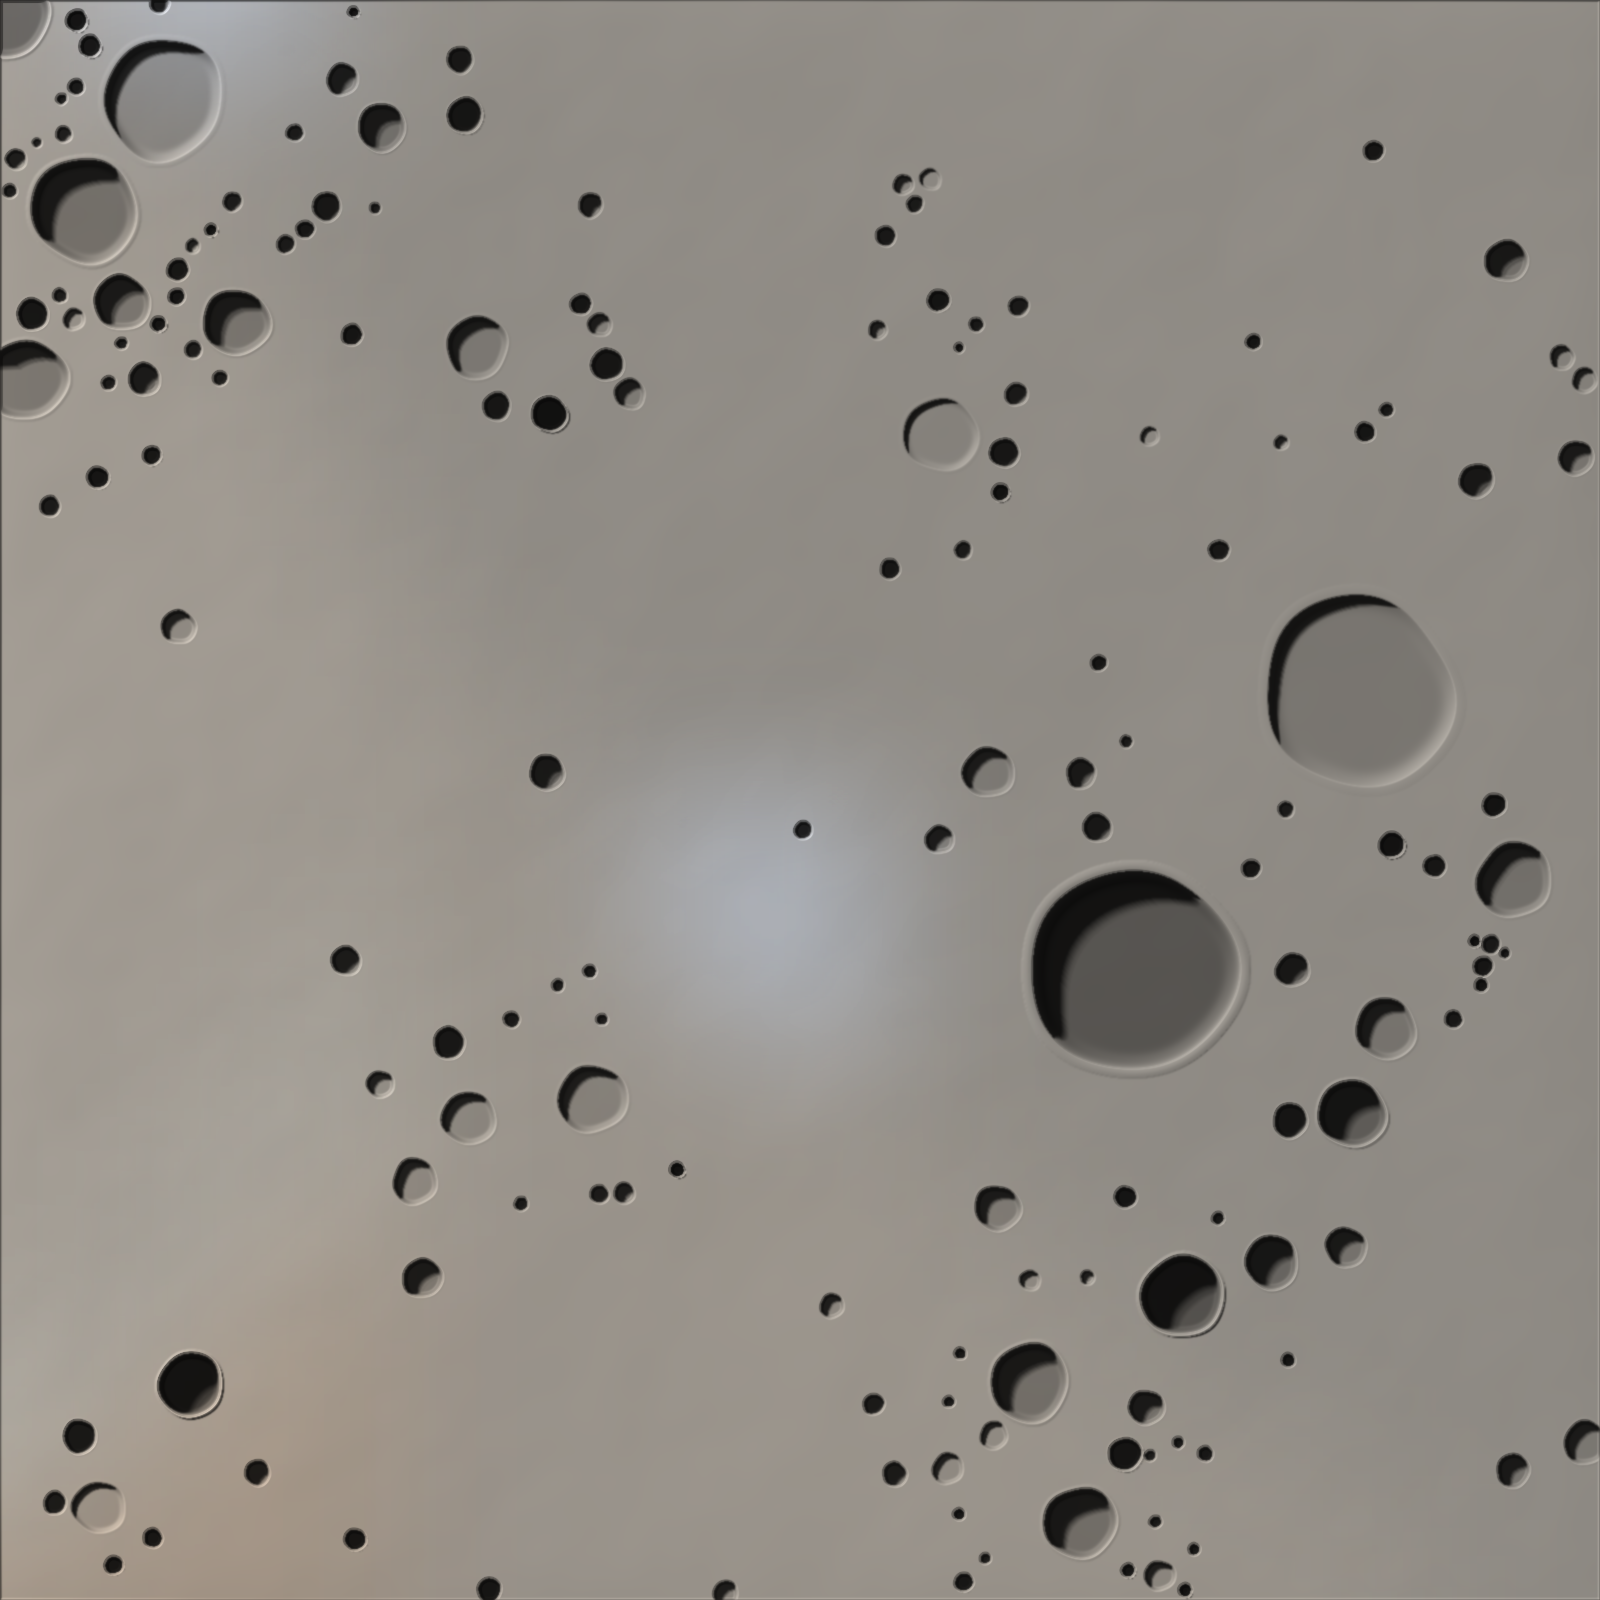
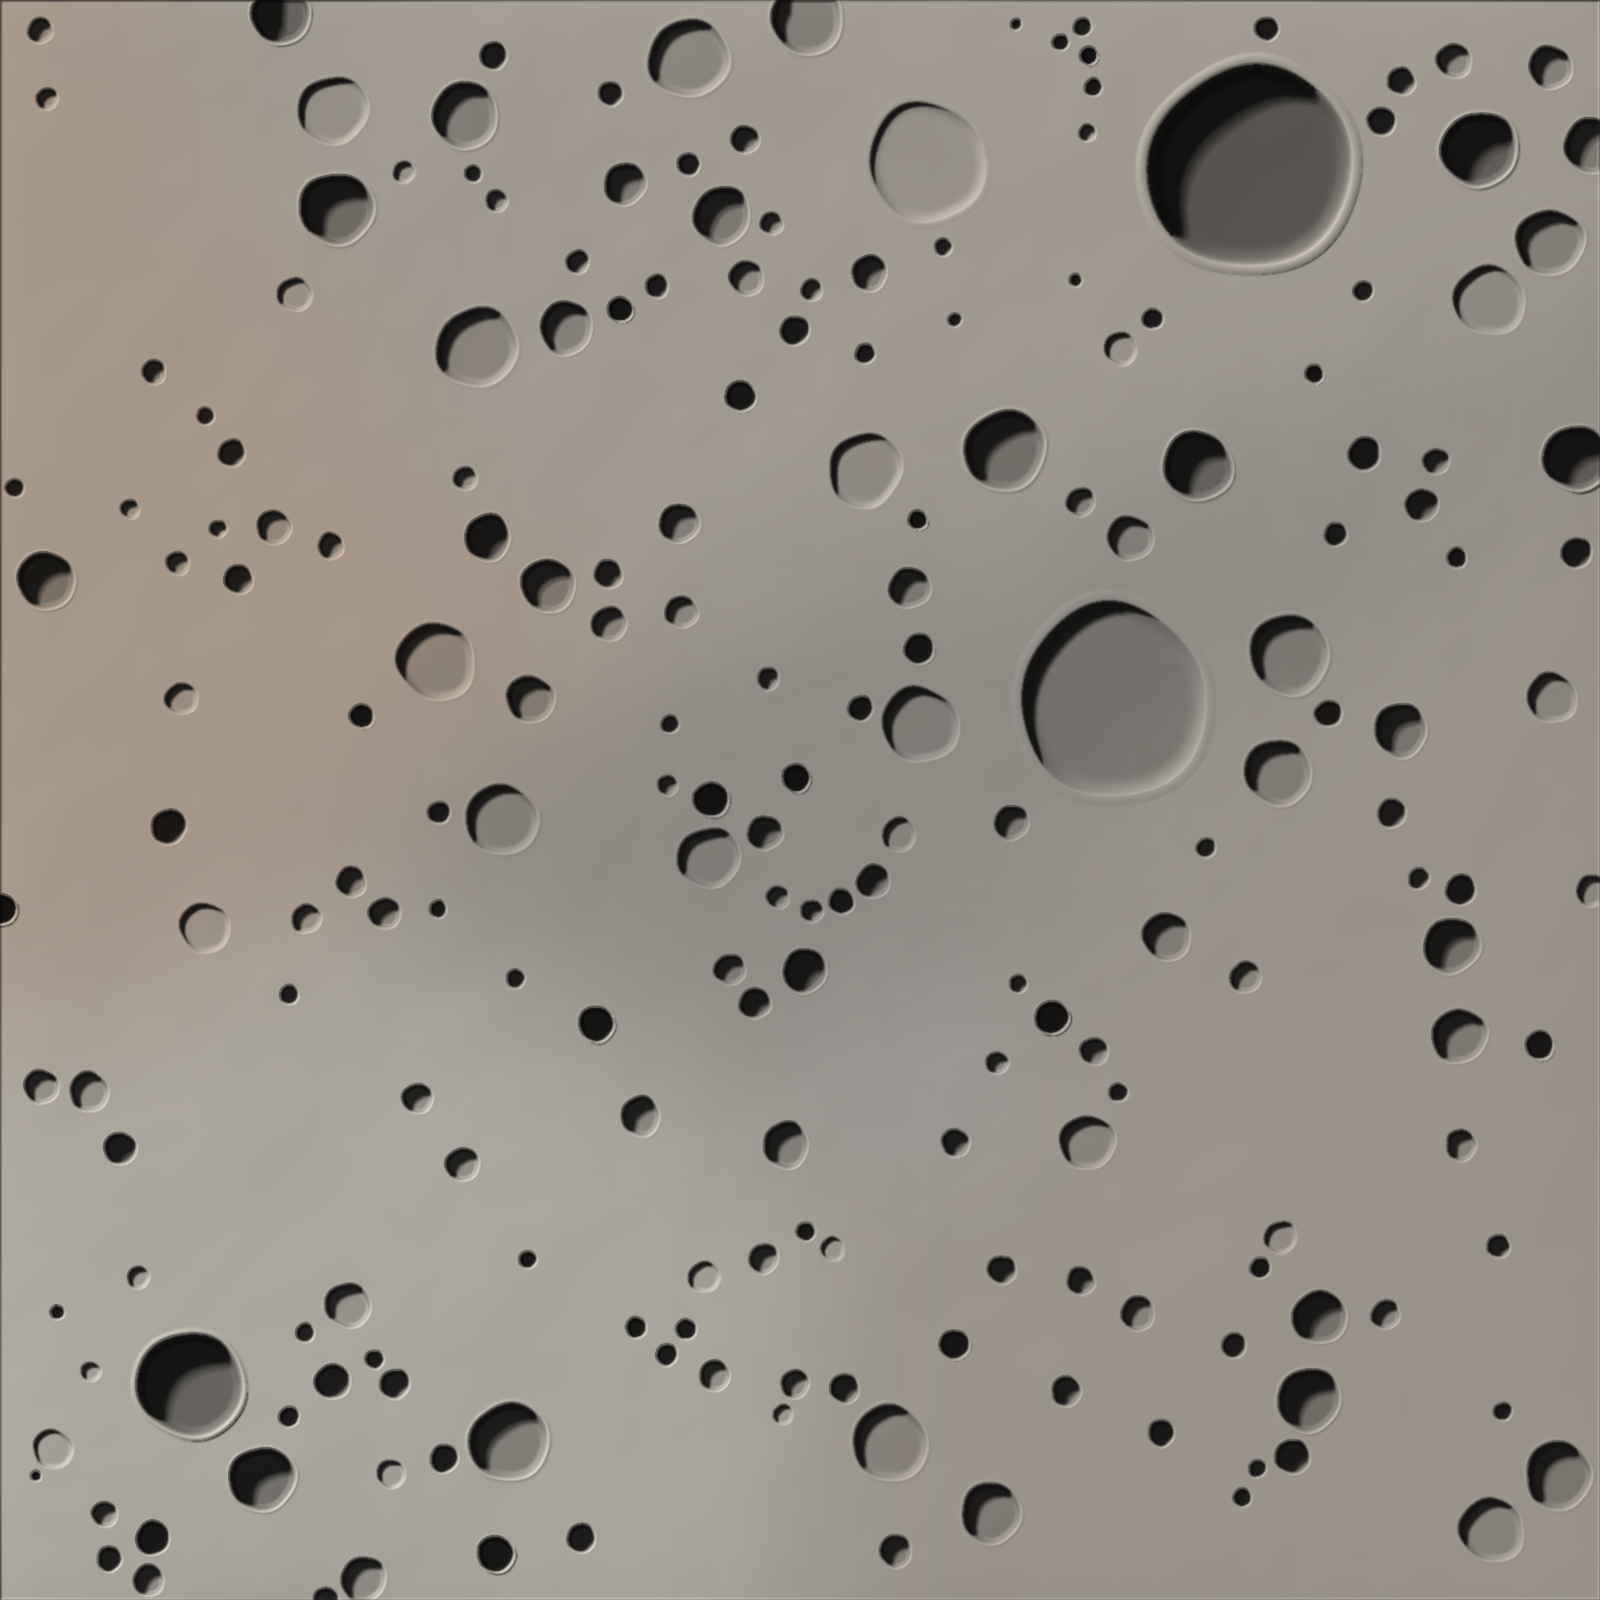
prototype: more uniform crater distribution, fewer secondaries
User feedback: previous Bridson-heavy placement clumped craters
visibly, and secondaries were too prominent. Three knobs:

  * Bridson growth ratio cut 60% -> 15%. Now 85% of primary placements
    are global random; the 15% Bridson rescue only fires when random
    keeps failing. Net effect: uniform coverage like pure rejection
    sampling, but Bridson kicks in to fill gaps when needed.
  * Secondary count cut 4..8 -> 2..4 per primary, and the threshold
    raised r > 35 -> r > 45 so only the biggest primaries get rays.
  * Total primaries bumped 60/25/4 -> 140/55/4 since the previous
    sparse density felt under-populated. Net ~120 craters per planet
    (was 89 before, originally 351).

Seed-variant + archetype-tile renderers updated to match.

https://claude.ai/code/session_014xZZbBkCGkgHdGrMSpJjDx

diff --git a/prototypes/planet_visuals/generate.py b/prototypes/planet_visuals/generate.py
@@ -197,24 +197,19 @@ class Crater:
     has_peak: bool
 
 
-def sample_craters(shape, rng, count_small=60, count_med=25, count_big=4,
+def sample_craters(shape, rng, count_small=140, count_med=55, count_big=4,
                    min_separation=1.15):
-    """Place primary craters via Bridson-style Poisson disc, then inject
-    secondary craters in clusters around large primaries.
+    """Place primary craters with mostly-random placement (uniform
+    coverage, no clumps), then inject a small number of secondary
+    craters around each big primary.
 
-    Real lunar surfaces aren't uniform random; they show two patterns
-    that pure rejection sampling can't produce:
-
-      * even coverage at small scales (no big empty zones, no clumps),
-        because saturation equilibrium fills in any gaps;
-      * small-crater *clusters* radiating from each large primary impact,
-        formed by ejecta landing 2-5× the primary radius away. These
-        often align along 1-2 "ray" directions.
-
-    Bridson's algorithm gives us (1) by trying to place each new crater
-    near an already-placed one (preferred) or at a fully random spot
-    (occasional, to escape clumping). (2) is a second pass: for each
-    big-enough primary, generate a few small secondaries in its annulus.
+    The user-visible distribution we want is: uniform density across the
+    whole planet, with subtle clusters of small secondaries hanging off
+    a few big primaries. Bridson-style growth made the clusters too
+    obvious — most placements now go to a fully random location, with
+    only a small fraction (~15%) drawn near an existing crater. That's
+    enough to fill in any genuinely empty spot without producing a
+    blob structure.
     """
     h, w = shape
 
@@ -244,8 +239,7 @@ def sample_craters(shape, rng, count_small=60, count_med=25, count_big=4,
             return True
         return False
 
-    # --- pass 1: primaries via Bridson-like growth -----------------------
-    # Place the first one anywhere.
+    # --- pass 1: primaries (mostly uniform random, light Bridson rescue)
     if primary_sizes:
         r0 = primary_sizes[0]
         for _ in range(100):
@@ -259,18 +253,18 @@ def sample_craters(shape, rng, count_small=60, count_med=25, count_big=4,
     dropped_primary = 0
     for r in primary_sizes[1:]:
         success = False
-        for _ in range(60):
-            if placed and rng.random() < 0.6:
-                # Bridson-style: place near a random already-placed crater
+        for _ in range(80):
+            # 85% global random, 15% Bridson-style near an existing
+            # crater (only used as a rescue if random keeps failing).
+            if placed and rng.random() < 0.15:
                 seed = placed[int(rng.integers(0, len(placed)))]
                 d_min = (seed.r + r) * min_separation
-                d_max = d_min * 2.5
+                d_max = d_min * 2.0
                 d = float(rng.uniform(d_min, d_max))
                 ang = float(rng.uniform(0, math.tau))
                 x = seed.cx + d * math.cos(ang)
                 y = seed.cy + d * math.sin(ang)
             else:
-                # Global random — breaks Bridson clumping in dead zones
                 x = float(rng.uniform(0, w))
                 y = float(rng.uniform(0, h))
             if try_place(x, y, r,
@@ -283,34 +277,27 @@ def sample_craters(shape, rng, count_small=60, count_med=25, count_big=4,
 
     n_primary = len(placed)
 
-    # --- pass 2: secondary clusters around big primaries -----------------
-    # Snapshot the primaries before injecting secondaries; we don't
-    # want secondaries spawning more secondaries.
+    # --- pass 2: secondaries — fewer, only around the largest primaries
     primaries_snapshot = list(placed)
     dropped_secondary = 0
     for p in primaries_snapshot:
-        if p.r < 35:
+        if p.r < 45:                    # only biggest primaries spawn rays
             continue
-        n_secondaries = int(rng.integers(4, 9))
-        # Two preferred ray directions for chain effect.
+        n_secondaries = int(rng.integers(2, 5))     # 2..4
         ray_angles = (float(rng.uniform(0, math.tau)),
                       float(rng.uniform(0, math.tau)))
         for _ in range(n_secondaries):
-            sr = float(rng.uniform(4.0, 11.0))
+            sr = float(rng.uniform(4.0, 10.0))
             success = False
-            for _ in range(25):
+            for _ in range(20):
                 if rng.random() < 0.55:
-                    # Along a ray, with a tight angular spread.
                     base = ray_angles[int(rng.integers(0, 2))]
-                    ang = base + float(rng.normal(0.0, 0.35))
+                    ang = base + float(rng.normal(0.0, 0.30))
                 else:
                     ang = float(rng.uniform(0, math.tau))
-                d = p.r * float(rng.uniform(1.8, 4.0))
+                d = p.r * float(rng.uniform(1.8, 3.5))
                 x = p.cx + d * math.cos(ang)
                 y = p.cy + d * math.sin(ang)
-                # Secondaries are typically younger / fresher than the
-                # background primary population (they formed in the
-                # primary's impact event).
                 age = float(rng.beta(1.5, 2.8))
                 if try_place(x, y, sr, age, False):
                     success = True
@@ -762,7 +749,7 @@ def render_archetype_tiles():
         h_with = h - 0.3 * mare
         h_with = apply_craters(h_with, sample_craters(
             (tile_px, tile_px), local_rng,
-            count_small=20, count_med=8, count_big=1), local_rng)
+            count_small=40, count_med=15, count_big=1), local_rng)
         sh = hillshade(h_with, z_factor=35.0, smooth_px=1.0)
         cast = cast_shadows(h_with, z_factor=35.0, max_distance_px=40.0)
         arch_idx = ARCHETYPE_ORDER.index(arch_name)
@@ -884,7 +871,7 @@ def render_seed_variants():
         h2 = height - 0.20 * mare
         h2 = apply_craters(h2, sample_craters(
             shape, rng,
-            count_small=40, count_med=15, count_big=3), rng)
+            count_small=80, count_med=30, count_big=3), rng)
         sh = hillshade(h2, z_factor=35.0, smooth_px=1.0)
         cast = cast_shadows(h2, z_factor=35.0, max_distance_px=40.0)
         ag = assign_archetype_grid(rng)
